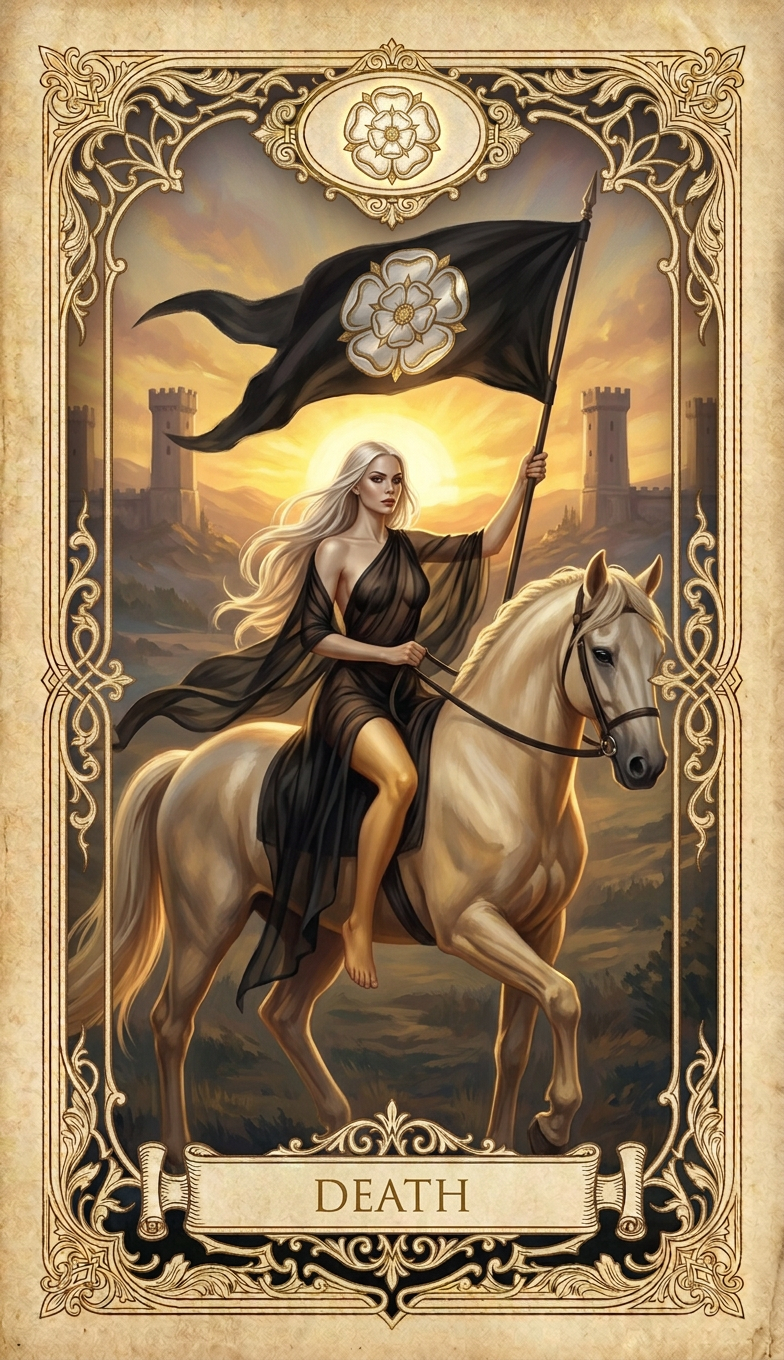
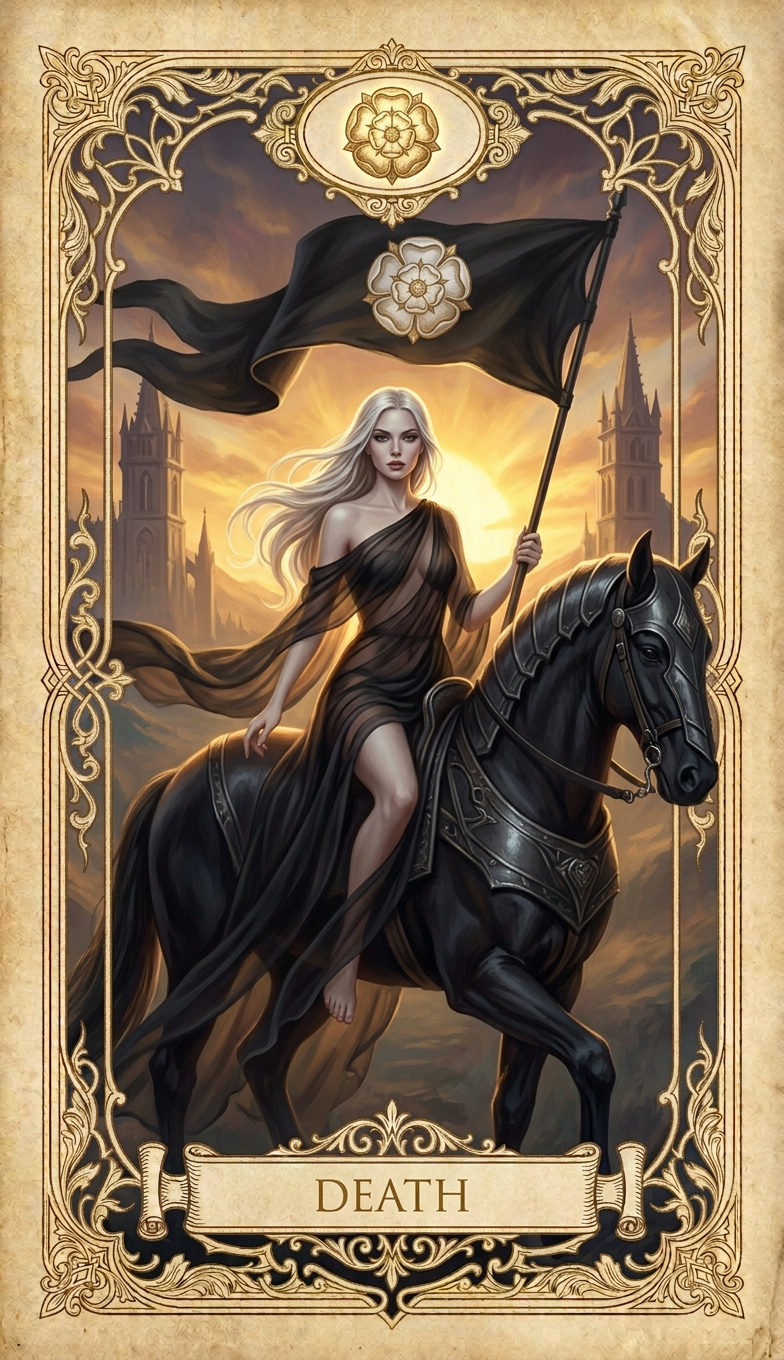
Death: change horse to a black charger (layout unchanged)
Replaced the pale charger with a calm black charger, keeping the same
composition (female figure draped in sheer black silk, black banner with
white rose, golden sunrise between twin towers). Frame-verified vs The
Star (RMSE 0.020).

diff --git a/cards/index.html b/cards/index.html
@@ -182,7 +182,7 @@
             <div class="card-details">
                 <div class="card-title">DEATH</div>
                 <div class="card-meta"><strong>Độ tuổi:</strong> 22 years old &bull; <strong>Huy hiệu:</strong> a five-petaled white rose</div>
-                <div class="card-scene">a striking 22-year-old pale female figure draped in sheer black silk that veils and reveals her bare form, riding a calm pale charger, holding a black banner adorned with a five-petaled white rose, a golden sunrise glowing between twin distant towers</div>
+                <div class="card-scene">a striking 22-year-old pale female figure draped in sheer black silk that veils and reveals her bare form, riding a calm black charger, holding a black banner adorned with a five-petaled white rose, a golden sunrise glowing between twin distant towers</div>
             </div>
         </div>
         <div class="card-item">
